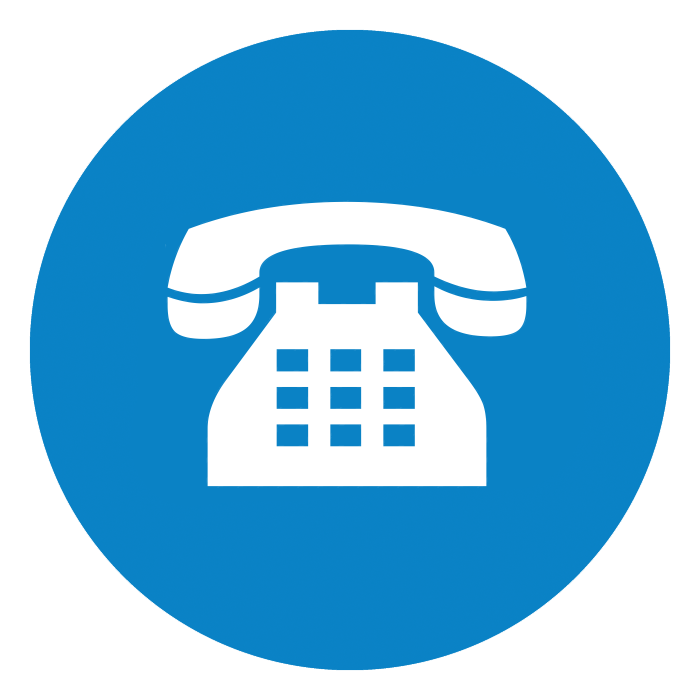
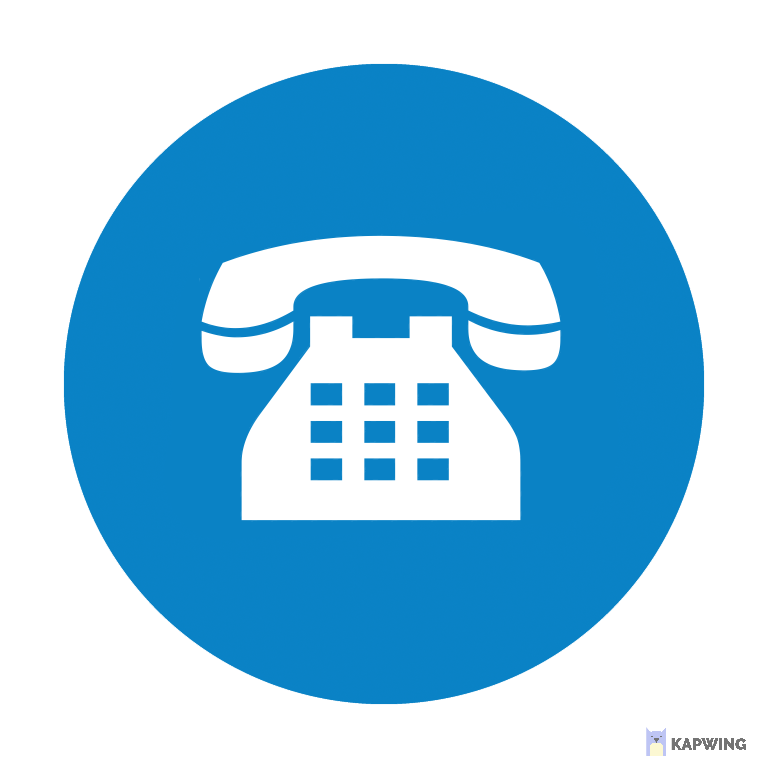
About and changed image

Changed region(s): [[0.03, 0.03, 0.96, 0.96], [0.24, 0.27, 0.75, 0.72], [0.84, 0.93, 0.99, 0.99]]

diff --git a/client/src/Home.js b/client/src/Home.js
@@ -3,7 +3,7 @@ import { BrowserRouter as Router, Switch, Route, BrowserRouter } from 'react-rou
 import React from 'react'
 import { About, Footer, Header } from './container';
 import { Navbar } from './components'
-import Contact from './components/Contact/contact';
+import Login from './components/About/about';
 import Upload from './components/Upload/Upload';
 import Verify from './components/Verify/Verify';
 import Share from './components/Share/Share';
@@ -34,8 +34,8 @@ export default () => (
                 <Route exact path="/share">
                   <Share drizzle={drizzle} drizzleState={drizzleState}  />
                 </Route>
-                <Route exact path="/contact">
-                  <Contact drizzle={drizzle} drizzleState={drizzleState} />
+                <Route exact path="/about">
+                  <Login drizzle={drizzle} drizzleState={drizzleState} />
                 </Route>
                 <Route path="/">
                   <Header />

diff --git a/client/src/components/Navbar/Navbar.js b/client/src/components/Navbar/Navbar.js
@@ -2,6 +2,7 @@ import React from 'react'
 import './Navbar.scss'
 import {images} from '../../constants'
 import { BrowserRouter as Router, Link } from "react-router-dom";
+
 function Navbar() {
   return (
     <nav className="app__navbar">
@@ -10,7 +11,7 @@ function Navbar() {
         <p>aCERT</p>
       </div>
       <ul className="app__navbar-links">
-        {['home', 'upload','verify', 'contact'].map((item) => (
+        {['home', 'upload','verify', 'about'].map((item) => (
           <li className="app__flex p-text" key={`link-${item}`}>
             <div />
             <a href={`/${item}`}>{item}</a>

diff --git a/client/src/container/About/About.js b/client/src/container/About/About.js
@@ -48,7 +48,7 @@ function About() {
       </Card>
       </a>
 
-      <a href='/share'>
+      <a href='/about'>
       <Card sx={{ maxWidth: 345 }}>
       <CardActionArea>
           <CardMedia

diff --git a/client/src/components/About/about.js b/client/src/components/About/about.js
@@ -1,5 +1,5 @@
 import React from 'react'
-import './contact.scss'
+import './about.scss'
 import {images} from "../../constants" 
 import TextField from '@mui/material/TextField';
 
